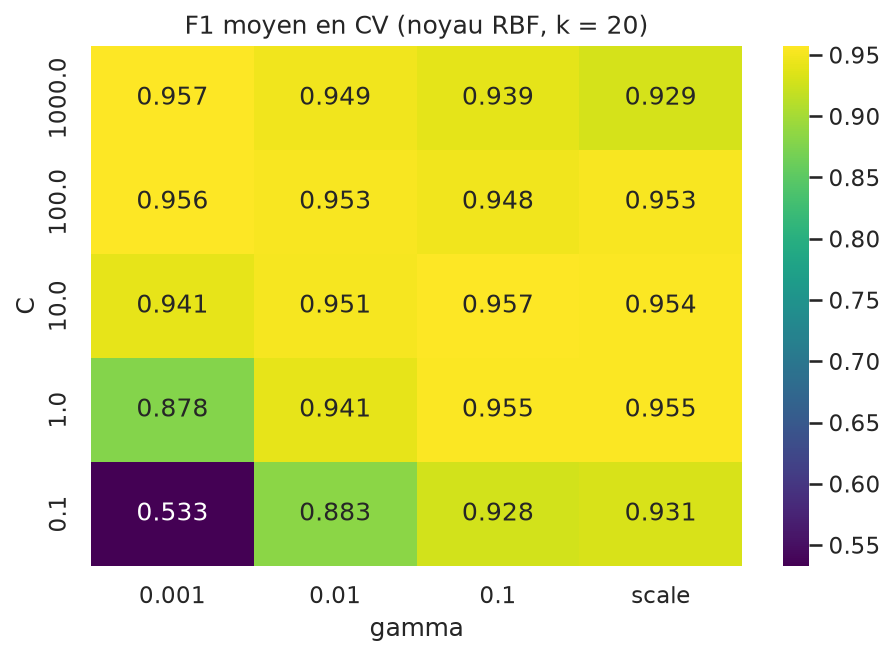
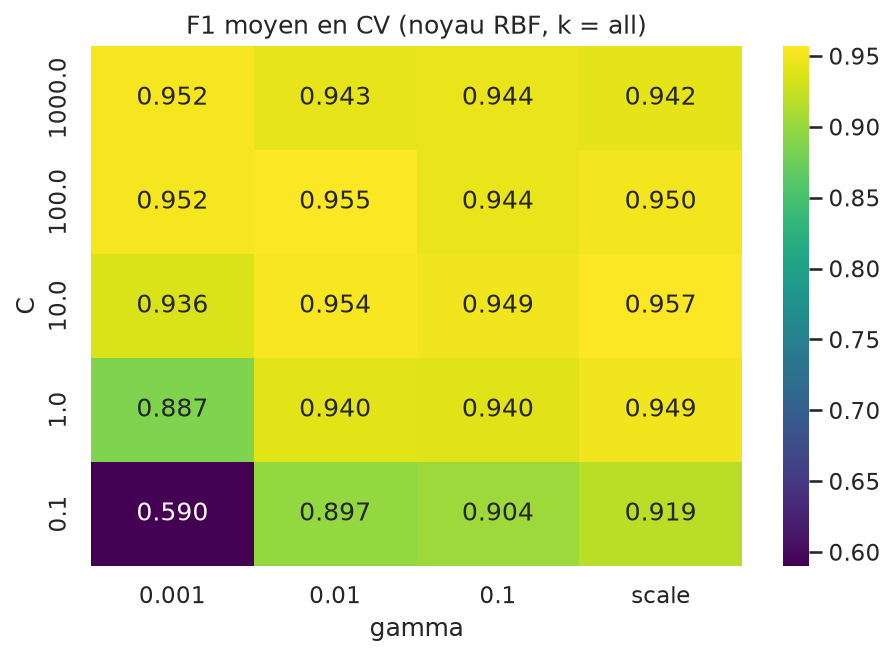
simple fixes

diff --git a/model/main.py b/model/main.py
@@ -14,7 +14,7 @@ import config
 from dataset.loader import load_dataset
 from exploration import display_data, visualize_data
 from preprocessing.preprocessing import preprocess
-from preprocessing import analyze_features, get_selected_features
+from preprocessing import analyze_features, get_selected_features, clean_data
 from ml_models import (tune_svm, cv_results_table, evaluate_svm, summary_tables)
 
 
@@ -25,13 +25,14 @@ def main():
     visualize_data(df)
 
     # 4) Pré-traitement (nettoyage + split train/test)
-    X_train, X_test, y_train, y_test = preprocess(df)
+    X_train, X_test, y_train, y_test,X,y = preprocess(df)
+
 
     # 5) Sélection des caractéristiques (scores sur le train)
     scores = analyze_features(X_train, y_train)
 
     # 6) Apprentissage + paramètres optimaux (GridSearchCV, CV = 4)
-    grid = tune_svm(X_train, y_train)
+    grid = tune_svm(X,y)
     cv_results_table(grid)
 
     # 7) Évaluation : matrices de confusion, ROC, métriques
@@ -49,6 +50,6 @@ if __name__ == "__main__":
     parser.add_argument("--no-show", action="store_true",
                         help="ne pas afficher les figures (les sauvegarder seulement)")
     args = parser.parse_args()
-    if args.no_show:
+    if args.no_show :
         config.SHOW_PLOTS = False
     main()

diff --git a/model/ml_models/svm.py b/model/ml_models/svm.py
@@ -29,21 +29,19 @@ def build_svm_pipeline():
         ("svm", SVC(random_state=config.RANDOM_STATE)),
     ])
 
-def tune_svm(X_train, y_train):
+def tune_svm(X, y):
     """GridSearchCV (StratifiedKFold, CV = 4) ; sélection du meilleur F1."""
-    titre("ÉTAPE 7 - APPRENTISSAGE SVM + RECHERCHE DES PARAMÈTRES (CV = 4)")
-    cv = StratifiedKFold(n_splits=config.CV_FOLDS, shuffle=True,
-                         random_state=config.RANDOM_STATE)
+    titre("ÉTAPE 6 - APPRENTISSAGE SVM + RECHERCHE DES PARAMÈTRES (CV = 4)")
     grid = GridSearchCV(
         build_svm_pipeline(),
         param_grid=config.SVM_PARAM_GRID,
         scoring=config.SCORING,
         refit=config.REFIT_METRIC,
-        cv=cv,
+        cv=config.CV_FOLDS,
         n_jobs=-1,
         return_train_score=False,
     )
-    grid.fit(X_train, y_train)
+    grid.fit(X,y)
 
     n_combi = len(grid.cv_results_["params"])
     print(f"{n_combi} combinaisons x {config.CV_FOLDS} plis = "

diff --git a/model/api/api.py b/model/api/api.py
@@ -10,7 +10,7 @@ import joblib
 from flask import Flask, jsonify, request
 from dataset.loader import load_dataset, split_xy
 from ml_models.svm import build_svm_pipeline
-from preprocessing.preprocessing import clean_data
+from preprocessing.preprocessing import clean_data, preprocess
 
 app = Flask(__name__)
 
@@ -26,7 +26,8 @@ def get_model():
             saved = joblib.load(config.MODEL_PATH)
             _model, _n_features = saved["model"], saved["n_features"]
         else:
-            X, y = split_xy(clean_data(load_dataset()))
+            df = load_dataset()
+            X_train, X_test, y_train, y_test,X,y = preprocess(df)
             _model = build_svm_pipeline().fit(X, y)
             _n_features = X.shape[1]
             joblib.dump({"model": _model, "n_features": _n_features},

diff --git a/model/preprocessing/preprocessing.py b/model/preprocessing/preprocessing.py
@@ -55,10 +55,11 @@ def split_data(df):
 
 def preprocess(df):
     """Nettoyage + split. Les étapes apprises (clipping, scaling) sont dans le Pipeline."""
-    titre("ÉTAPE 4 - PRÉ-TRAITEMENT")
+    titre("ÉTAPE 3 - PRÉ-TRAITEMENT")
     df = clean_data(df)
+    X,y = split_xy(df)
     X_train, X_test, y_train, y_test = split_data(df)
     print("\nDans le Pipeline SVM (appris sur le train uniquement) :")
     print(f"  1. OutlierClipper ({config.OUTLIER_FACTOR_CLIPPING} x IQR)")
     print("  2. StandardScaler (moyenne 0, écart-type 1) - obligatoire pour un SVM")
-    return X_train, X_test, y_train, y_test
+    return X_train, X_test, y_train, y_test,X,y

diff --git a/model/preprocessing/feature_selection.py b/model/preprocessing/feature_selection.py
@@ -51,7 +51,7 @@ def get_selected_features(pipeline, columns):
 
 
 def analyze_features(X_train, y_train):
-    titre("ÉTAPE 5 - SÉLECTION DES CARACTÉRISTIQUES")
+    titre("ÉTAPE 4 - SÉLECTION DES CARACTÉRISTIQUES")
     scores = compute_feature_scores(X_train, y_train)
     print(scores.head(10).round(3).to_string(index=False))
     save_table(scores.round(4), "scores_caracteristiques")
